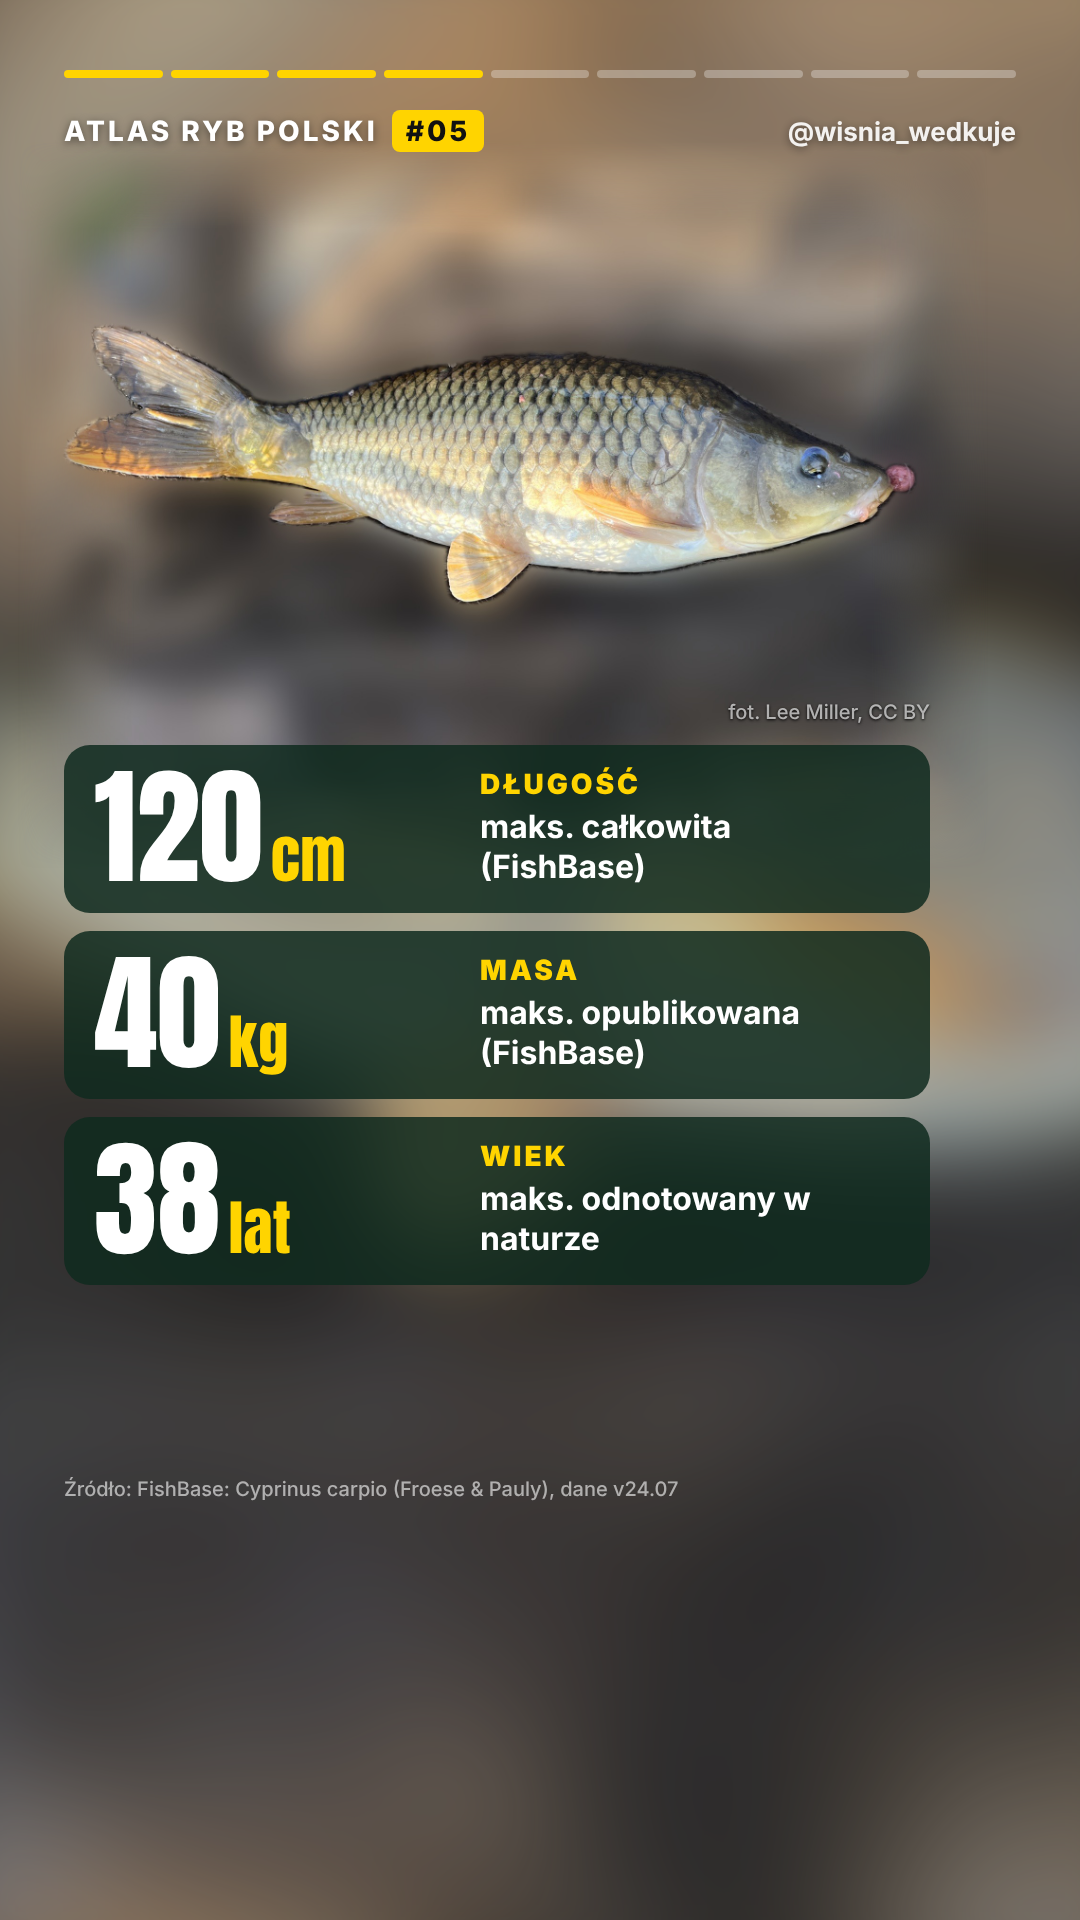
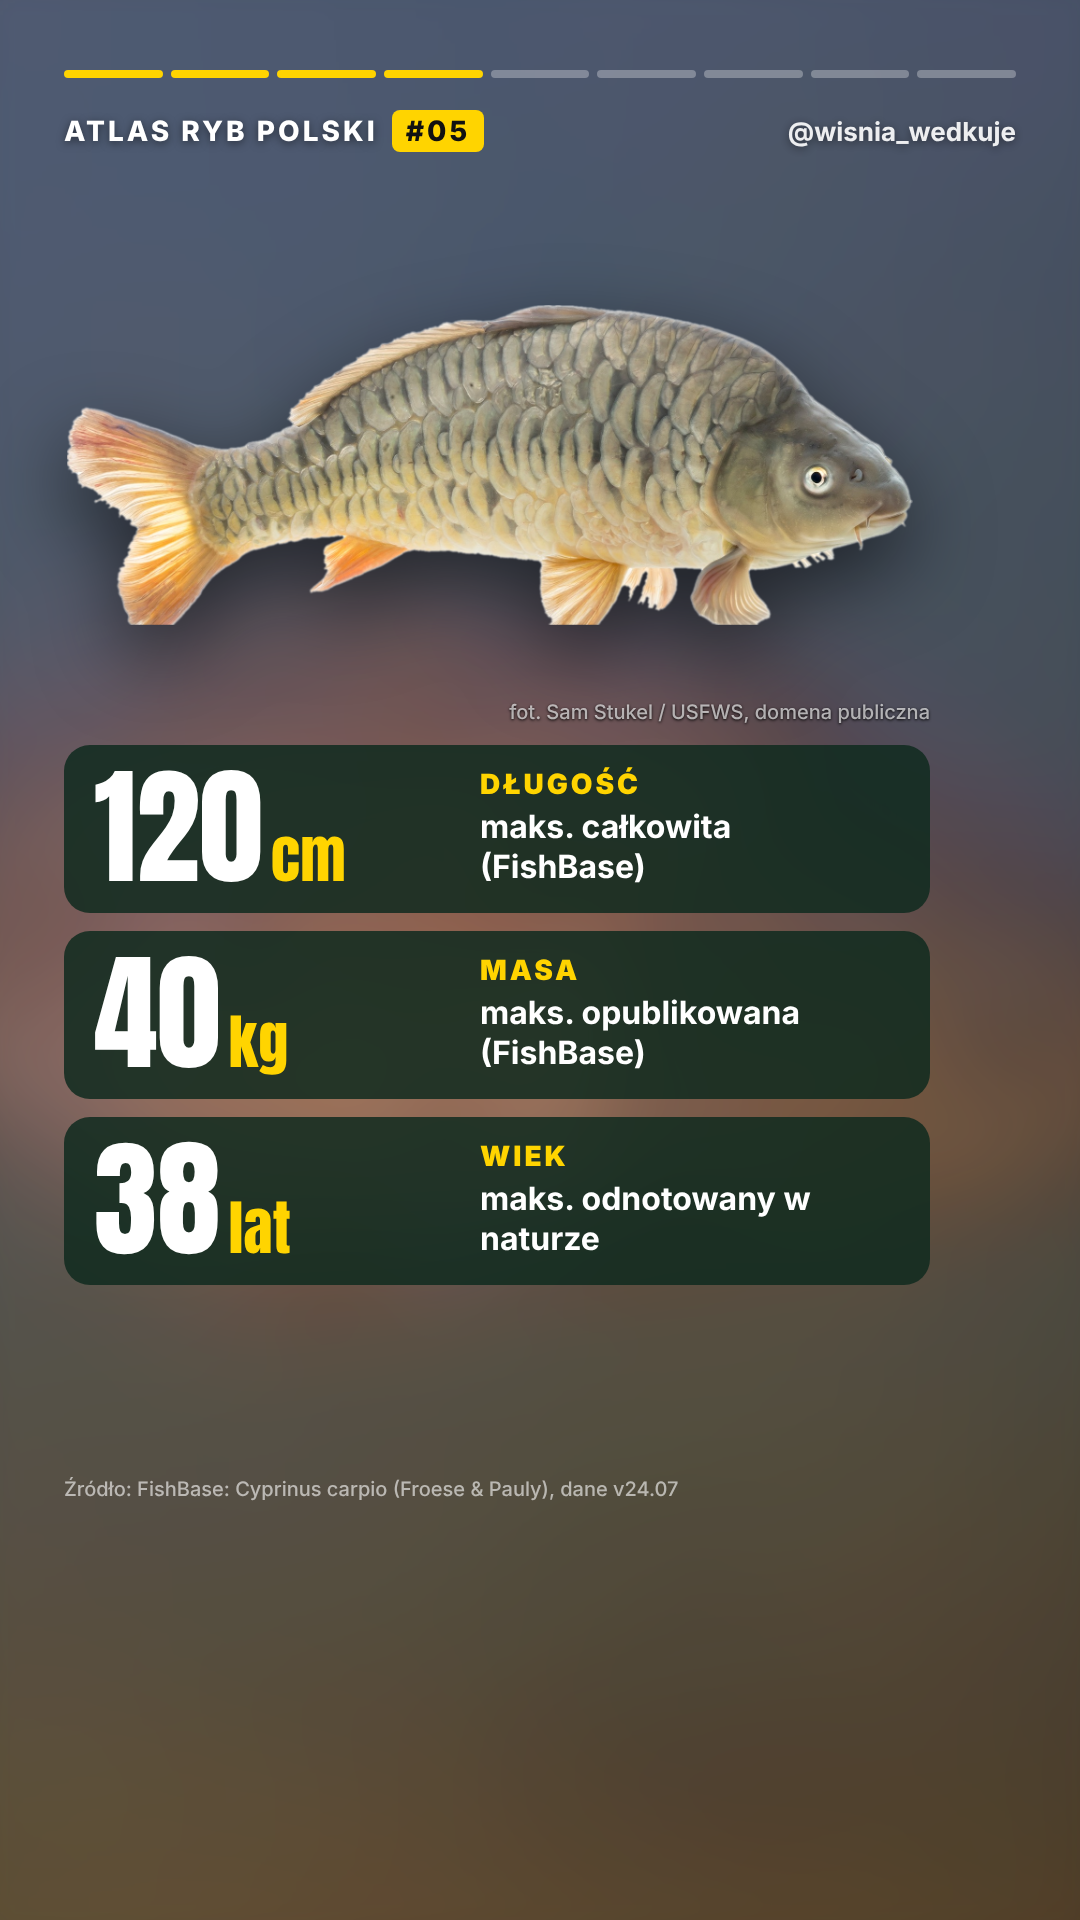
Karp #05: lustrzeń (USFWS, domena publiczna) w slajdzie 4; opcja wycinka na tle odcinka
Claude-Session: https://claude.ai/code/session_01P9R5v2yPFHwMJVw1yZXoPw

diff --git a/atlas/sceny.js b/atlas/sceny.js
@@ -31,8 +31,10 @@ window.zbudujSceny = function () {
     const left = cx - bcx * s, top = cy - (y0 + bh / 2) * s;
     // punkt zaczepienia „Ken Burns” = środek ryby
     const origin = `transform-origin:${cx}px ${cy}px`;
-    let h = opt.tlo === false ? '' : `<img class="tlo ${L ? 'lustro' : ''}" src="${src(Z.plik)}">`;
-    if (opt.wycinek)
+    // cfg.wycinek: zdjęcie na jednolitym tle (np. białym) – pokaż samą rybę na rozmytym zdjęciu tła odcinka
+    const wyc = opt.wycinek || cfg.wycinek, T = cfg.wycinek ? ZD[G.zdjecia.tlo.nazwa] : Z;
+    let h = opt.tlo === false ? '' : `<img class="tlo ${L && !cfg.wycinek ? 'lustro' : ''}" src="${src(T.plik)}">`;
+    if (wyc)
       h += `<div class="kb" style="${origin}"><img class="wyc ${L ? 'lustro' : ''}" src="${src(Z.wycinek)}" style="left:${cx - bw * s / 2}px;top:${cy - bh * s / 2}px;width:${bw * s}px"></div>`;
     else
       h += `<div class="kb" style="${origin}"><img class="foto ${L ? 'lustro' : ''}" src="${src(Z.plik)}" style="left:${left}px;top:${top}px;width:${Z.w * s}px"></div>`;
